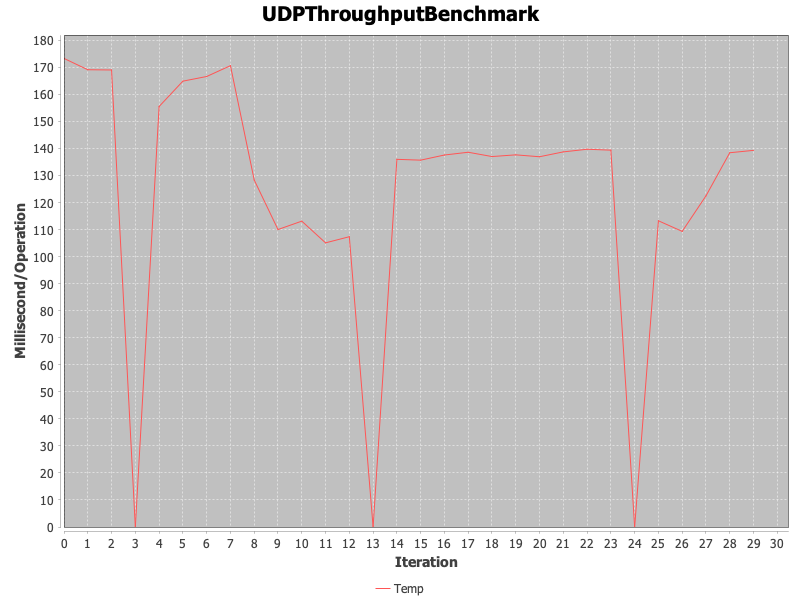
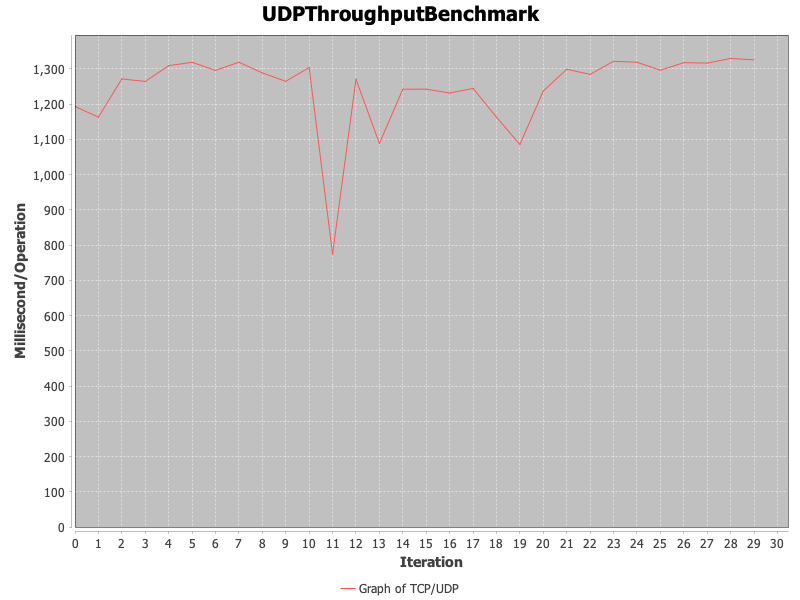
Added all the tests
the units are incorrect

diff --git a/src/main/resources/static/index.html b/src/main/resources/static/index.html
@@ -150,11 +150,11 @@
                 <figcaption>UDP Throughput Benchmark. <br/>  Sent 1024 iterations of size 1024 byte packet.</figcaption>
             </figure>
             <figure>
-                <img src="backup/backup/local-gee/%5B4096%5DUDPThroughputBenchmark.png"/>
+                <img src="backup/backup/local-gee/[2048]UDPThroughputBenchmark.png"/>
                 <figcaption>UDP Throughput Benchmark. <br/> Sent 2048 iterations of size 512 byte packet.</figcaption>
             </figure>
             <figure>
-                <img src="backup/backup/local-gee/%5B2048%5DUDPThroughputBenchmark.png"/>
+                <img src="backup/backup/local-gee/[4096]UDPThroughputBenchmark.png"/>
                 <figcaption>UDP Throughput Benchmark. <br/> Sent 4096 iterations of size 256 byte packet.</figcaption>
             </figure>
         </div>
@@ -296,7 +296,7 @@
         <h1 class="center">Throughput</h1>
         <div class="centered">
             <figure>
-                <img src="backup/backup/moxie-gee/[1024]UDPThroughputBenchmark.png"/>
+                <img src="backup/backup/moxie-gee/%5B2048%5DUDPThroughputBenchmark.png"/>
                 <figcaption>UDP Throughput Benchmark. Sent 1024 iterations of size 1024 byte packet.</figcaption>
             </figure>
             <figure>

diff --git a/src/main/java/org/network/Client.java b/src/main/java/org/network/Client.java
@@ -13,7 +13,7 @@ public class Client {
      * Host: server url
      * Port: port where the networking occurs
      */
-    static String host = "localhost";
+    static String host = "moxie.cs.oswego.edu";
     static int echoServicePortNumber = 26880;
     static int udpServicePortNumber = 26881;
     static String agreement = "13610152"; // Triangular Numbers
@@ -89,13 +89,6 @@ public class Client {
             packets.add(Helpers.msg.substring(stringIndex, stringIndex + Helpers.msgSize));
             stringIndex += Helpers.msgSize;
         }
-
-//        if (Helpers.test == 2 || Helpers.test == 4) {
-//            for (int i = 0; i < packets.size(); i++) {
-//                String eightByteAgreementMessage = packets.get(i) + agreement;
-//                packets.set(i, eightByteAgreementMessage);
-//            }
-//        }
 
         for (String s : packets) {
             encryptedPackets.add(Helpers.xorEncode(s.getBytes(), Helpers.key));
@@ -198,9 +191,9 @@ public class Client {
                     in.readFully(byteArray);
                 }
                 long receiveTime = System.nanoTime();
-                double diffInSeconds = (receiveTime - sendTime) * 1e-9;
-
-                tcpThroughputData.add(Helpers.iterations / diffInSeconds);
+                double diffInSeconds = (receiveTime - sendTime)  * 1e-9;
+                double throughput = (Helpers.msgSize * Byte.SIZE) / (diffInSeconds);
+                tcpThroughputData.add(throughput);
                 System.out.println("All " + Helpers.numberOfMessages + " packets sent and received in " + diffInSeconds +
                         " seconds with a throughput of " + Helpers.iterations / diffInSeconds + " op/s");
             }
@@ -288,6 +281,7 @@ public class Client {
                     long receiveTime = System.nanoTime();
                     double diffInSeconds = (receiveTime - sendTime) * 1e-9;
                     double throughput = (Helpers.msgSize * Byte.SIZE) / (diffInSeconds);
+
                     udpThroughputData.add(throughput);
                     System.out.println("All " + Helpers.numberOfMessages + " packets sent and received in " + diffInSeconds +
                             " seconds with a throughput of " + throughput + " op/s");

diff --git a/src/main/java/org/network/Graphing.java b/src/main/java/org/network/Graphing.java
@@ -10,6 +10,8 @@ import org.jfree.chart.ChartUtils;
 import java.io.File;
 import java.io.IOException;
 import java.util.ArrayList;
+import java.util.Arrays;
+import java.util.List;
 
 public class Graphing {
     /**
@@ -18,13 +20,13 @@ public class Graphing {
      * @param title - title of the graph
      */
     static void graph(ArrayList<Double> data, String title) {
-        XYSeries hashMapXY = new XYSeries("Graph of TCP/UDP");
+        XYSeries xymap = new XYSeries("Graph of TCP/UDP");
 
         for (int i = 0; i < data.size(); i++) {
-            hashMapXY.add(i, data.get(i));
+            xymap.add(i, data.get(i));
         }
 
-        XYSeriesCollection solutionsXY = new XYSeriesCollection(hashMapXY);
+        XYSeriesCollection solutionsXY = new XYSeriesCollection(xymap);
         JFreeChart hashMapLineChart = ChartFactory.createXYLineChart(
                 title,
                 "Iteration",
@@ -43,4 +45,6 @@ public class Graphing {
             System.err.println("Error saving chart: " + e.getMessage());
         }
     }
+
+
 }

diff --git a/src/main/java/org/network/UDPServer2.java b/src/main/java/org/network/UDPServer2.java
@@ -29,7 +29,7 @@ public class UDPServer2 {
 
                     maxBufferSize = packet.getLength();
                     byte[] data = packet.getData();
-                    String msg = new String(data);
+//                    String msg = new String(data);
                     if (checkLast8Bytes(data, Client.agreementBytes)) {
                         DatagramPacket responsePacket = new DatagramPacket(
                                 data, maxBufferSize, packet.getAddress(), packet.getPort());

diff --git a/src/main/java/org/network/TCPServer2.java b/src/main/java/org/network/TCPServer2.java
@@ -32,7 +32,7 @@ public class TCPServer2 {
 
                             byte[] byteArray = new byte[length];
                             in.readFully(byteArray);
-                            String msg = new String(byteArray);
+//                            String msg = new String(byteArray);
                             if (checkLast8Bytes(byteArray, Client.agreementBytes)) {
                                 out.writeInt(byteArray.length);
                                 out.write(byteArray);
